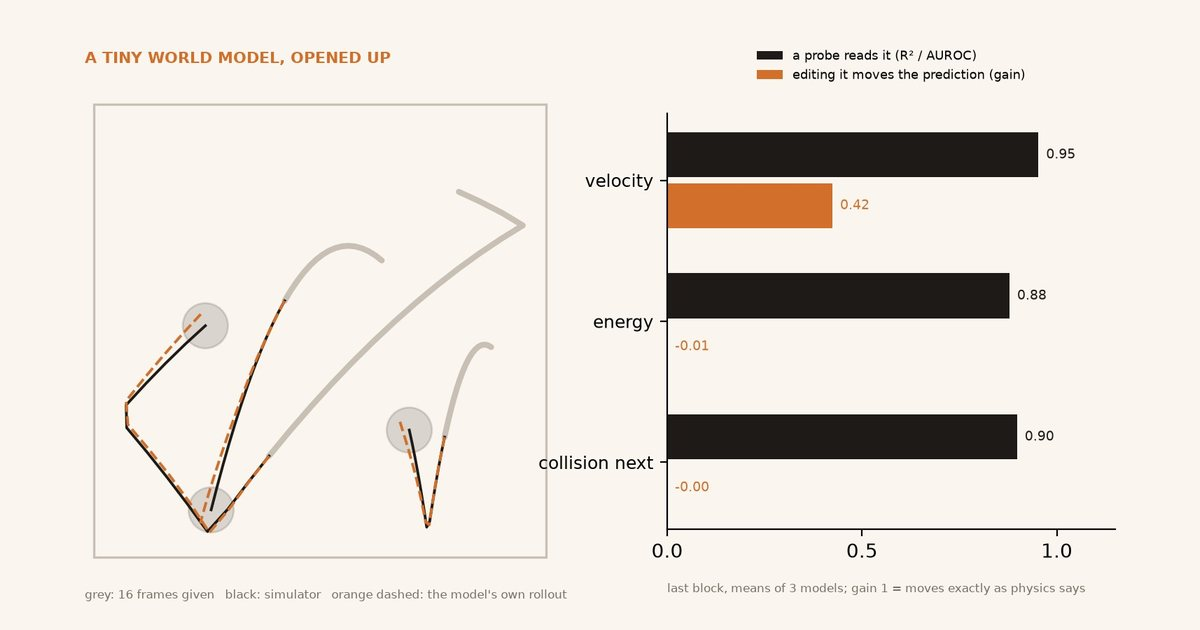
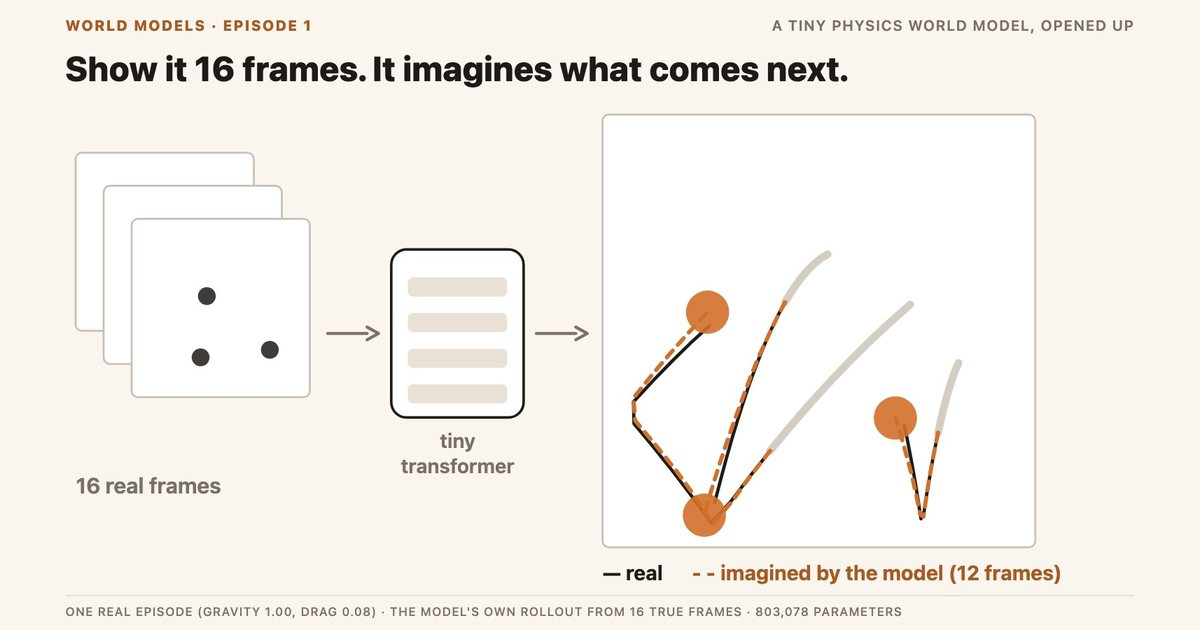
World models, Episode 1: new cover showing what a world model is
The cover is now an inline SVG drawn by make_cover.py from one real episode: three of
the 16 frames the model is given, the tiny transformer, and its 12-frame rollout over
the simulator's paths. Hero, og image and research-page thumbnail regenerated.

diff --git a/experiments/world-model-physics/report/index.html b/experiments/world-model-physics/report/index.html
@@ -15,7 +15,7 @@
 <meta property="og:image" content="https://albertlieyingadrian.github.io/steerlab/experiments/world-model-physics/report/figures/og.jpg">
 <meta property="og:image:width" content="1200">
 <meta property="og:image:height" content="630">
-<meta property="og:image:alt" content="Left: three ball paths in a box, the simulator&#x27;s in black and a small world model&#x27;s 12-frame rollout dashed in orange, close together. Right: a probe reads velocity, energy and collision-next at 0.95, 0.88 and 0.90; editing along the probe moves the model&#x27;s prediction by 0.42, 0 and 0 of what physics says.">
+<meta property="og:image:alt" content="Show it 16 frames, it imagines what comes next: three real frames of three balls in a box go into a tiny transformer, whose dashed orange 12-frame rollout follows the simulator&#x27;s black paths, curving down under gravity and bouncing off the floor.">
 <meta name="twitter:card" content="summary_large_image">
 <meta name="twitter:title" content="A tiny physics world model carries energy and collisions it barely uses, tracks gravity it can’t extrapolate, and gains less from RL than from more data">
 <meta name="twitter:description" content="Six 0.8M-parameter world models trained from scratch on bouncing-ball simulators, pre-registered: velocity is read and used at half the physical strength, energy and collision-imminent are read (R² 0.88, AUROC 0.90) but barely used, gravity is used but only half linearly readable and stops short past the training range, and RL for physical consistency loses to supervised training on more data with the same compute.">
@@ -110,8 +110,10 @@
   <p class="dek ruled">Six small transformers trained from scratch to predict where three bouncing balls go next, opened up three ways: is what a probe reads also what the model acts on; is a physical constant like gravity a readable, steerable variable that holds outside the training range; and what does RL for physical consistency change inside? Velocity is read and used; energy and “a collision is coming” are read almost perfectly and barely used; gravity is used well but only half readable and stops short past the training edge; and RL moved almost nothing that more simulator data did not move better.</p>
 
   <figure class="hero whole">
-    <img src="figures/hero.jpg" alt="On cream paper, left: a square box with three ball paths. Grey thick lines are 16 frames given to the model; black lines are the simulator's next 12 frames, bending under gravity and bouncing off the floor; orange dashed lines are the model's own rollout, close to the black ones. Right: three pairs of bars for velocity, energy and collision next. A probe reads them at 0.95, 0.88 and 0.90; editing the model along the probe moves the prediction with a gain of 0.42 for velocity, about 0 for energy and 0 for collision next." width="1600" height="900">
-    <figcaption>Cover. Left: a constants-world episode (gravity 1.00, drag 0.08) and one of its models’ 12-frame rollout from 16 true frames (<code>results/exp_b_rollout_demo.npz</code>). Right: for the base-world models (no gravity), how well a probe reads each quantity at the last block (test R² or AUROC) and how much adding the probe direction at one frame moves the prediction, as a share of what physics says it should (velocity, energy) or of the bounce it should remove (collision); means of 3 models (<code>results/exp_a_s*.json</code>). Drawn by <code>make_cover.py</code>.</figcaption>
+    <!-- cover:start -->
+    <svg class="wm-cover" viewBox="0 0 880 495" width="880" height="495" role="img" aria-label="Three of 16 real frames of three balls in a box go into a tiny transformer, which imagines the next 12 frames. Its dashed orange paths follow the simulator&#x27;s black ones closely, curving down under gravity and bouncing off the floor. One real episode, gravity 1.00, drag 0.08." style="display:block;width:100%;height:auto" xmlns="http://www.w3.org/2000/svg"><rect x="0" y="0" width="880" height="495" rx="0" fill="#faf6ef" stroke="none" stroke-width="1"/><text x="20" y="24" fill="#a85a22" style="font-family:-apple-system,BlinkMacSystemFont,'Inter','Segoe UI',Helvetica,Arial,sans-serif;font-size:11.5px;font-weight:800" letter-spacing="0.09em">WORLD MODELS · EPISODE 1</text><text x="860" y="24" fill="#7a7065" style="font-family:-apple-system,BlinkMacSystemFont,'Inter','Segoe UI',Helvetica,Arial,sans-serif;font-size:11.5px;font-weight:600" text-anchor="end" letter-spacing="0.06em">A TINY PHYSICS WORLD MODEL, OPENED UP</text><text x="20" y="64" fill="#1d1a17" style="font-family:-apple-system,BlinkMacSystemFont,'Inter','Segoe UI',Helvetica,Arial,sans-serif;font-size:27px;font-weight:800">Show it 16 frames. It imagines what comes next.</text><rect x="28" y="120" width="140" height="140" rx="5" fill="#fff" stroke="#c9c0b5" stroke-width="1.5"/><circle cx="160.8" cy="157.4" r="7.0" fill="#1d1a17" fill-opacity="0.85"/><circle cx="111.0" cy="164.5" r="7.0" fill="#1d1a17" fill-opacity="0.85"/><circle cx="148.0" cy="194.4" r="7.0" fill="#1d1a17" fill-opacity="0.85"/><rect x="50" y="146" width="140" height="140" rx="5" fill="#fff" stroke="#c9c0b5" stroke-width="1.5"/><circle cx="143.0" cy="213.2" r="7.0" fill="#1d1a17" fill-opacity="0.85"/><circle cx="120.9" cy="192.4" r="7.0" fill="#1d1a17" fill-opacity="0.85"/><circle cx="164.2" cy="228.5" r="7.0" fill="#1d1a17" fill-opacity="0.85"/><rect x="72" y="172" width="140" height="140" rx="5" fill="#fff" stroke="#c9c0b5" stroke-width="1.5"/><circle cx="126.2" cy="280.8" r="7.0" fill="#1d1a17" fill-opacity="0.85"/><circle cx="131.1" cy="232.7" r="7.0" fill="#1d1a17" fill-opacity="0.85"/><circle cx="180.6" cy="274.9" r="7.0" fill="#1d1a17" fill-opacity="0.85"/><text x="28" y="388" fill="#7a7065" style="font-family:-apple-system,BlinkMacSystemFont,'Inter','Segoe UI',Helvetica,Arial,sans-serif;font-size:17px;font-weight:650">16 real frames</text><path d="M226,262 L257.0,262.0" stroke="#7a7065" stroke-width="2.4" stroke-linecap="round"/><path d="M257.0,257.0 L266,262 L257.0,267.0" fill="none" stroke="#7a7065" stroke-width="2.4" stroke-linecap="round" stroke-linejoin="round"/><rect x="276" y="196" width="104" height="132" rx="12" fill="#fff" stroke="#1d1a17" stroke-width="2"/><rect x="289" y="302.0" width="78" height="15" rx="4" fill="#e9e1d5" stroke="none" stroke-width="1"/><rect x="289" y="274.0" width="78" height="15" rx="4" fill="#e9e1d5" stroke="none" stroke-width="1"/><rect x="289" y="246.0" width="78" height="15" rx="4" fill="#e9e1d5" stroke="none" stroke-width="1"/><rect x="289" y="218.0" width="78" height="15" rx="4" fill="#e9e1d5" stroke="none" stroke-width="1"/><text x="328" y="352" fill="#7a7065" style="font-family:-apple-system,BlinkMacSystemFont,'Inter','Segoe UI',Helvetica,Arial,sans-serif;font-size:15.5px;font-weight:650" text-anchor="middle">tiny</text><text x="328" y="372" fill="#7a7065" style="font-family:-apple-system,BlinkMacSystemFont,'Inter','Segoe UI',Helvetica,Arial,sans-serif;font-size:15.5px;font-weight:650" text-anchor="middle">transformer</text><path d="M390,262 L421.0,262.0" stroke="#7a7065" stroke-width="2.4" stroke-linecap="round"/><path d="M421.0,257.0 L430,262 L421.0,267.0" fill="none" stroke="#7a7065" stroke-width="2.4" stroke-linecap="round" stroke-linejoin="round"/><rect x="442" y="90" width="340" height="340" rx="5" fill="#fff" stroke="#c9c0b5" stroke-width="1.5"/><path d="M683.8,239.2 L667.9,253.3 L652.0,268.1 L636.2,283.8 L620.5,300.2 L604.8,317.4 L589.2,335.4 L573.7,354.2" fill="none" stroke="#c9c0b5" stroke-width="6" stroke-opacity="0.8" stroke-linecap="round" stroke-linejoin="round"/><path d="M573.7,354.2 L558.2,373.7 L542.8,394.0 L527.5,410.9 L512.2,390.0 L497.0,370.1 L481.8,351.0 L466.7,332.9 L466.3,315.8 L481.3,299.5 L496.2,284.2 L511.0,269.7 L525.8,256.2" fill="none" stroke="#1d1a17" stroke-width="2.6" stroke-opacity="1.0" stroke-linecap="round" stroke-linejoin="round"/><path d="M573.7,354.2 L558.6,373.5 L543.8,393.9 L528.8,411.7 L514.0,389.2 L498.7,368.3 L483.1,348.9 L467.6,330.5 L466.3,312.7 L480.3,295.2 L494.8,278.1 L509.6,261.4 L524.5,245.3" fill="none" stroke="#d26f2a" stroke-width="3.2" stroke-opacity="1.0" stroke-linecap="round" stroke-linejoin="round" stroke-dasharray="7 6"/><circle cx="524.5" cy="245.3" r="17.0" fill="#d26f2a" fill-opacity="0.9"/><path d="M618.9,199.8 L614.1,202.7 L609.3,206.4 L604.5,211.0 L599.7,216.4 L594.9,222.6 L590.1,229.6 L585.4,237.5" fill="none" stroke="#c9c0b5" stroke-width="6" stroke-opacity="0.8" stroke-linecap="round" stroke-linejoin="round"/><path d="M585.4,237.5 L580.7,246.2 L576.0,255.7 L571.3,266.0 L566.7,277.1 L562.1,289.0 L557.4,301.7 L552.9,315.2 L548.3,329.5 L543.7,344.6 L539.2,360.5 L534.7,377.2 L530.2,394.6" fill="none" stroke="#1d1a17" stroke-width="2.6" stroke-opacity="1.0" stroke-linecap="round" stroke-linejoin="round"/><path d="M585.4,237.5 L580.7,246.4 L575.8,256.4 L570.7,267.4 L565.0,279.7 L559.6,292.9 L554.1,307.2 L548.7,322.1 L543.0,337.8 L537.5,353.7 L532.2,370.1 L526.9,387.0 L522.0,404.8" fill="none" stroke="#d26f2a" stroke-width="3.2" stroke-opacity="1.0" stroke-linecap="round" stroke-linejoin="round" stroke-dasharray="7 6"/><circle cx="522.0" cy="404.8" r="17.0" fill="#d26f2a" fill-opacity="0.9"/><path d="M721.7,285.1 L719.4,290.5 L717.1,296.7 L714.8,303.7 L712.5,311.5 L710.2,320.2 L707.9,329.7 L705.6,340.0" fill="none" stroke="#c9c0b5" stroke-width="6" stroke-opacity="0.8" stroke-linecap="round" stroke-linejoin="round"/><path d="M705.6,340.0 L703.4,351.0 L701.1,362.9 L698.9,375.6 L696.6,389.1 L694.4,403.4 L692.2,407.6 L690.0,393.2 L687.8,379.7 L685.6,367.1 L683.4,355.4 L681.3,344.6 L679.1,334.7" fill="none" stroke="#1d1a17" stroke-width="2.6" stroke-opacity="1.0" stroke-linecap="round" stroke-linejoin="round"/><path d="M705.6,340.0 L703.4,351.1 L701.0,363.1 L698.7,376.0 L696.5,390.1 L694.1,406.0 L691.5,403.9 L688.3,388.1 L685.0,373.4 L681.6,360.6 L678.3,348.8 L675.2,338.2 L672.1,328.4" fill="none" stroke="#d26f2a" stroke-width="3.2" stroke-opacity="1.0" stroke-linecap="round" stroke-linejoin="round" stroke-dasharray="7 6"/><circle cx="672.1" cy="328.4" r="17.0" fill="#d26f2a" fill-opacity="0.9"/><text x="442" y="456" fill="#1d1a17" style="font-family:-apple-system,BlinkMacSystemFont,'Inter','Segoe UI',Helvetica,Arial,sans-serif;font-size:16px;font-weight:700">— real</text><text x="512" y="456" fill="#a85a22" style="font-family:-apple-system,BlinkMacSystemFont,'Inter','Segoe UI',Helvetica,Arial,sans-serif;font-size:16px;font-weight:700">- - imagined by the model (12 frames)</text><path d="M20,468 H860" stroke="#e3dbd0" stroke-width="1"/><text x="20" y="484" fill="#7a7065" style="font-family:-apple-system,BlinkMacSystemFont,'Inter','Segoe UI',Helvetica,Arial,sans-serif;font-size:9.5px;font-weight:500" letter-spacing="0.05em">ONE REAL EPISODE (GRAVITY 1.00, DRAG 0.08) · THE MODEL&#x27;S OWN ROLLOUT FROM 16 TRUE FRAMES · 803,078 PARAMETERS</text></svg>
+    <!-- cover:end -->
+    <figcaption>Cover: what a world model is. Three of the 16 real frames the model is given, the tiny transformer, and its own 12-frame rollout (orange dashed) over the simulator’s next 12 frames (black), for one constants-world episode (gravity 1.00, drag 0.08; <code>results/exp_b_rollout_demo.npz</code>, the episode of 8 whose rollout stays closest to the simulator). Drawn by <a href="../make_cover.py">make_cover.py</a>.</figcaption>
   </figure>
 
   <dl class="meta">

diff --git a/experiments/world-model-physics/make_cover.py b/experiments/world-model-physics/make_cover.py
@@ -1,110 +1,120 @@
-"""Draw the cover (report/figures/hero.jpg, og.jpg) and the research-page thumbnail from the study's own results.
+"""Draw the cover from the study's own results: what a world model is, on one real episode.
 
-    .venv/bin/python experiments/world-model-physics/make_cover.py
+    python experiments/world-model-physics/make_cover.py
 
-Left: one constants-world episode (g = 1.00), the simulator's paths and the model's own 12-frame rollout
-(results/exp_b_rollout_demo.npz). Right: for three quantities, how well a probe reads them at block 3 (presence) and
-how much a frame-t edit along the probe moves the prediction (use), means of three seeds (results/exp_a_s*.json).
+Left to right: three of the 16 real frames the model is given, the tiny transformer, and its own 12-frame rollout
+(dashed) drawn over the simulator's next 12 frames (black), for one constants-world episode (gravity 1.00, drag 0.08;
+results/exp_b_rollout_demo.npz, the episode of 8 whose rollout stays closest to the simulator). Writes the SVG into
+report/index.html between the cover markers, report/figures/hero.jpg (build_meta.py turns it into og.jpg) and
+../shared/thumbs/world-model-physics.jpg.
 """
 
-import json
+import sys
 from pathlib import Path
 
-import matplotlib
-
-matplotlib.use("Agg")
-import matplotlib.pyplot as plt
 import numpy as np
-from PIL import Image
 
 HERE = Path(__file__).resolve().parent
-R = HERE / "results"
-FIG = HERE / "report" / "figures"
+REPORT = HERE / "report"
 THUMB = HERE.parent / "shared" / "thumbs" / "world-model-physics.jpg"
-CREAM, INK, MUTED, EMBER, GREY = "#faf6ef", "#1d1a17", "#7a7065", "#d26f2a", "#c9c0b5"
+sys.path.insert(0, str(HERE.parent / "shared"))
+from cover_kit import (
+    EMBER,
+    EMBER_D,
+    INK,
+    LINE,
+    MUTED,
+    arrow,
+    caps,
+    headline,
+    kicker,
+    rect,
+    render_hero,
+    svg,
+    t,
+    write_cover,
+)
+
+GREY = "#c9c0b5"
+
+
+class Box:
+    """The unit box [0, 1]^2 drawn as a square at (x0, y0) with side s, y up."""
+
+    def __init__(self, x0, y0, s):
+        self.x0, self.y0, self.s = x0, y0, s
+
+    def p(self, xy):
+        return self.x0 + xy[0] * self.s, self.y0 + (1 - xy[1]) * self.s
+
+    def path(self, pts, color, width, dash=None, opacity=1.0):
+        d = "M" + " L".join(f"{x:.1f},{y:.1f}" for x, y in (self.p(v) for v in pts))
+        da = f' stroke-dasharray="{dash}"' if dash else ""
+        return f'<path d="{d}" fill="none" stroke="{color}" stroke-width="{width}" stroke-opacity="{opacity}" stroke-linecap="round" stroke-linejoin="round"{da}/>'
+
+    def ball(self, xy, fill, opacity=1.0):
+        x, y = self.p(xy)
+        return f'<circle cx="{x:.1f}" cy="{y:.1f}" r="{0.05 * self.s:.1f}" fill="{fill}" fill-opacity="{opacity}"/>'
+
+    def frame(self):
+        return rect(self.x0, self.y0, self.s, self.s, "#fff", GREY, 1.5, rx=5)
+
+
+def transformer(x, y, w, h):
+    out = [rect(x, y, w, h, "#fff", INK, 2, rx=12)]
+    for k in range(4):
+        out.append(rect(x + 13, y + h - 26 - k * (h - 20) / 4, w - 26, 15, "#e9e1d5", rx=4))
+    return "".join(out)
+
+
+def data():
+    with np.load(HERE / "results" / "exp_b_rollout_demo.npz") as d:
+        D = {k: d[k] for k in d.files}
+    i = int(np.argmin(np.abs(D["clean"][:, 16:28] - D["truth"][:, 16:28]).mean((1, 2, 3))))
+    return D["truth"][i], D["clean"][i], float(D["g"][i]), float(D["drag"][i])
+
+
+def cover_svg(truth, roll, g, drag):
+    b = [kicker("WORLD MODELS · EPISODE 1", "A TINY PHYSICS WORLD MODEL, OPENED UP")]
+    b.append(headline("Show it 16 frames. It imagines what comes next.", None, 64, 27))
+    for k, f in enumerate((3, 9, 15)):  # three of the 16 frames it is given, fanned like a stack
+        bx = Box(28 + k * 22, 120 + k * 26, 140)
+        b.append(bx.frame())
+        b.extend(bx.ball(truth[f, j], INK, 0.85) for j in range(3))
+    b.append(t(28, 336 + 52, "16 real frames", 17, 650, MUTED))
+    b.append(arrow(226, 262, 266, 262, MUTED, 2.4))
+    b.append(transformer(276, 196, 104, 132))
+    b.append(t(328, 352, "tiny", 15.5, 650, MUTED, "middle"))
+    b.append(t(328, 372, "transformer", 15.5, 650, MUTED, "middle"))
+    b.append(arrow(390, 262, 430, 262, MUTED, 2.4))
+    bx = Box(442, 90, 340)
+    b.append(bx.frame())
+    for j in range(3):
+        b.append(bx.path(truth[8:16, j], GREY, 6, opacity=0.8))
+        b.append(bx.path(truth[15:28, j], INK, 2.6))
+        b.append(bx.path(roll[15:28, j], EMBER, 3.2, "7 6"))
+        b.append(bx.ball(roll[27, j], EMBER, 0.9))
+    b.append(t(442, 456, "— real", 16, 700, INK))
+    b.append(t(512, 456, "- - imagined by the model (12 frames)", 16, 700, EMBER_D))
+    b.append(f'<path d="M20,468 H860" stroke="{LINE}" stroke-width="1"/>')
+    b.append(
+        caps(
+            f"ONE REAL EPISODE (GRAVITY {g:.2f}, DRAG {drag:.2f}) · THE MODEL'S OWN ROLLOUT FROM 16 TRUE FRAMES · 803,078 PARAMETERS"
+        )
+    )
+    label = (
+        "Three of 16 real frames of three balls in a box go into a tiny transformer, which imagines the next 12 frames. "
+        "Its dashed orange paths follow the simulator's black ones closely, curving down under gravity and bouncing "
+        f"off the floor. One real episode, gravity {g:.2f}, drag {drag:.2f}."
+    )
+    return svg("".join(b), label, "wm-cover")
 
 
 def main():
-    with np.load(R / "exp_b_rollout_demo.npz") as d:
-        D = {k: d[k] for k in d.files}
-    i = int(np.argmin(np.abs(D["clean"][:, 16:28] - D["truth"][:, 16:28]).mean((1, 2, 3))))
-    A = [json.loads((R / f"exp_a_s{s}.json").read_text()) for s in (2610, 2611, 2612)]
-    pres = {
-        "velocity": np.mean([a["presence"]["velocity_r2"][4] for a in A]),
-        "energy": np.mean([a["presence"]["energy_r2"][4] for a in A]),
-        "collision next": np.mean([a["presence"]["collision_auroc"][4] for a in A]),
-    }
-    use = {
-        "velocity": np.mean([a["velocity_edit"]["blocks"][3]["gain"] for a in A]),
-        "energy": np.mean([a["energy_edit"]["blocks"][3]["gain"] for a in A]),
-        "collision next": np.mean(
-            [a["collision_edit"]["blocks"][3]["drop"] / a["collision_edit"]["blocks"][3]["bounce_clean"] for a in A]
-        ),
-    }
-    print("presence", {k: round(v, 3) for k, v in pres.items()}, "use", {k: round(v, 3) for k, v in use.items()})
-
-    fig = plt.figure(figsize=(8, 4.5), dpi=200)
-    fig.patch.set_facecolor(CREAM)
-    ax = fig.add_axes([0.04, 0.1, 0.42, 0.75])
-    ax.set_facecolor(CREAM)
-    ax.add_patch(plt.Rectangle((0, 0), 1, 1, fill=False, color=GREY, lw=1.2))
-    for b in range(3):
-        ax.plot(D["truth"][i, :16, b, 0], D["truth"][i, :16, b, 1], color=GREY, lw=3, solid_capstyle="round")
-        ax.plot(D["truth"][i, 15:28, b, 0], D["truth"][i, 15:28, b, 1], color=INK, lw=1.4)
-        ax.plot(D["clean"][i, 15:28, b, 0], D["clean"][i, 15:28, b, 1], color=EMBER, lw=1.4, ls="--")
-        ax.add_patch(plt.Circle(D["truth"][i, 27, b], 0.05, color=INK, alpha=0.15))
-    ax.set_xlim(-0.02, 1.02)
-    ax.set_ylim(-0.02, 1.02)
-    ax.set_aspect("equal")
-    ax.axis("off")
-    fig.text(0.04, 0.9, "A TINY WORLD MODEL, OPENED UP", color=EMBER, fontsize=8, fontweight="bold")
-    fig.text(
-        0.04,
-        0.05,
-        "grey: 16 frames given   black: simulator   orange dashed: the model's own rollout",
-        color=MUTED,
-        fontsize=6,
-    )
-    bx = fig.add_axes([0.56, 0.16, 0.4, 0.66])
-    bx.set_facecolor(CREAM)
-    names = list(pres)
-    y = np.arange(len(names))[::-1]
-    bx.barh(y + 0.18, [pres[n] for n in names], height=0.32, color=INK, label="a probe reads it (R² / AUROC)")
-    bx.barh(
-        y - 0.18,
-        [max(use[n], 0) for n in names],
-        height=0.32,
-        color=EMBER,
-        label="editing it moves the prediction (gain)",
-    )
-    for yy, n in zip(y, names):
-        bx.text(pres[n] + 0.02, yy + 0.18, f"{pres[n]:.2f}", va="center", fontsize=7, color=INK)
-        bx.text(max(use[n], 0) + 0.02, yy - 0.18, f"{use[n]:.2f}", va="center", fontsize=7, color=EMBER)
-    bx.set_yticks(y, names, fontsize=9)
-    bx.set_xlim(0, 1.15)
-    bx.set_xticks([0, 0.5, 1])
-    for s in ("top", "right"):
-        bx.spines[s].set_visible(False)
-    bx.legend(fontsize=6.5, frameon=False, loc="upper center", bbox_to_anchor=(0.5, 1.18))
-    fig.text(
-        0.56, 0.06, "last block, means of 3 models; gain 1 = moves exactly as physics says", color=MUTED, fontsize=6
-    )
-    FIG.mkdir(parents=True, exist_ok=True)
-    tmp = FIG / "hero.png"
-    fig.savefig(tmp, dpi=200, facecolor=CREAM)
-    plt.close(fig)
-    im = Image.open(tmp).convert("RGB")
-    tmp.unlink()
-    im.save(FIG / "hero.jpg", quality=90)
-    w, h = im.size
-    og = im.resize((1200, int(1200 * h / w)), Image.LANCZOS)
-    canvas = Image.new("RGB", (1200, 630), CREAM)
-    canvas.paste(og, (0, (630 - og.size[1]) // 2))
-    canvas.save(FIG / "og.jpg", quality=88)
-    crop = im.crop((int((w - h * 1.5) / 2), 0, int((w + h * 1.5) / 2), h))
-    THUMB.parent.mkdir(parents=True, exist_ok=True)
-    crop.resize((720, 480), Image.LANCZOS).save(THUMB, quality=88)
-    print("wrote hero.jpg", im.size, "og.jpg and", THUMB.name)
+    s = cover_svg(*data())
+    write_cover(REPORT / "index.html", s)
+    render_hero(s, REPORT, THUMB)
+    print("cover: wrote", REPORT / "figures" / "hero.jpg", THUMB)
 
 
 if __name__ == "__main__":
